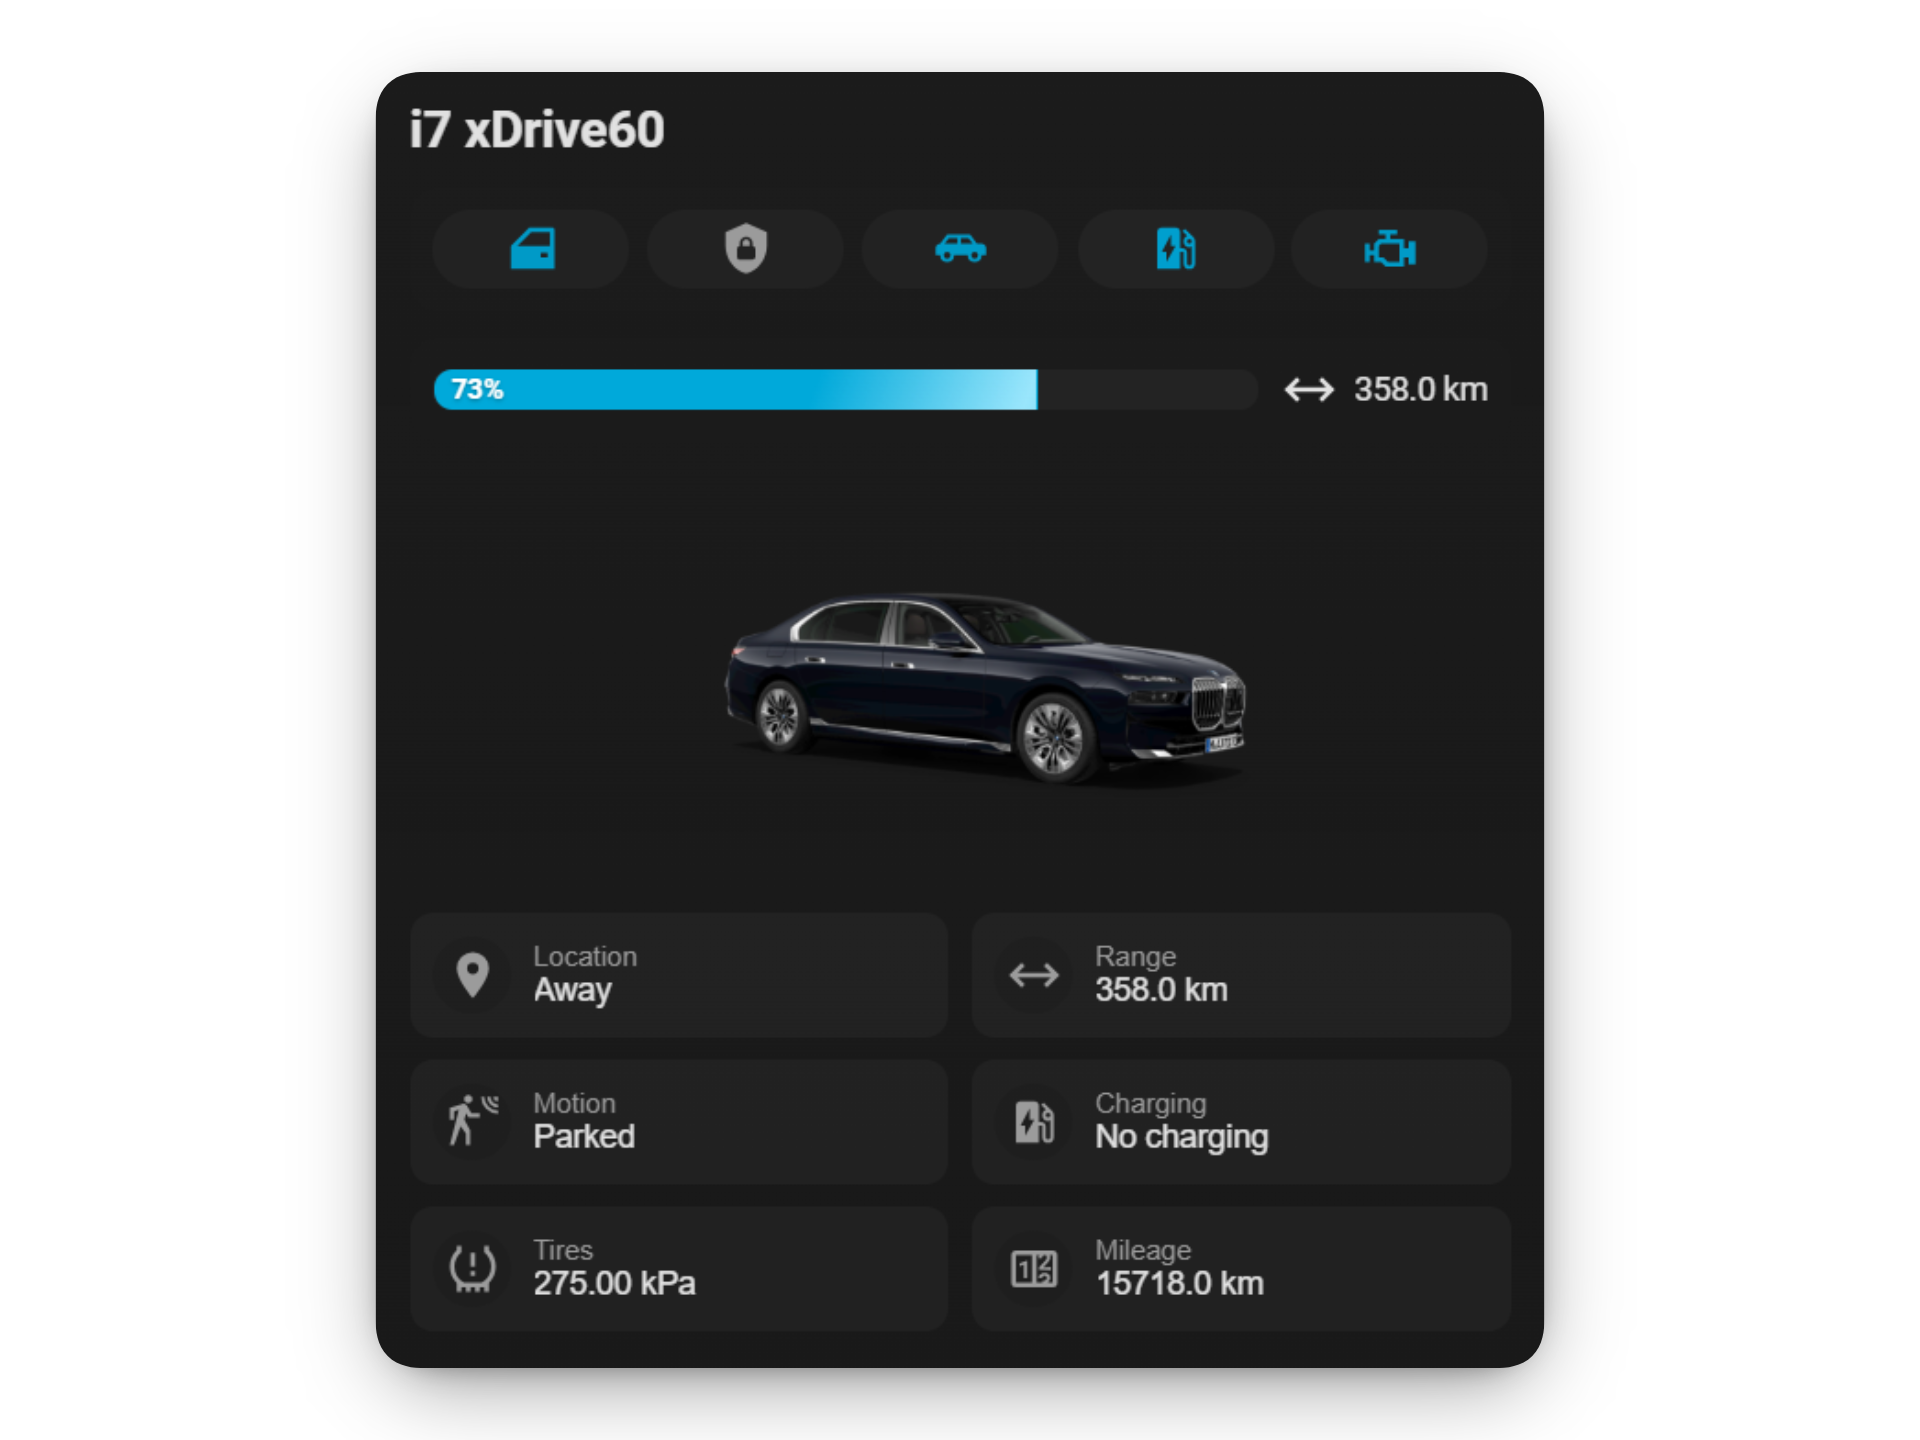
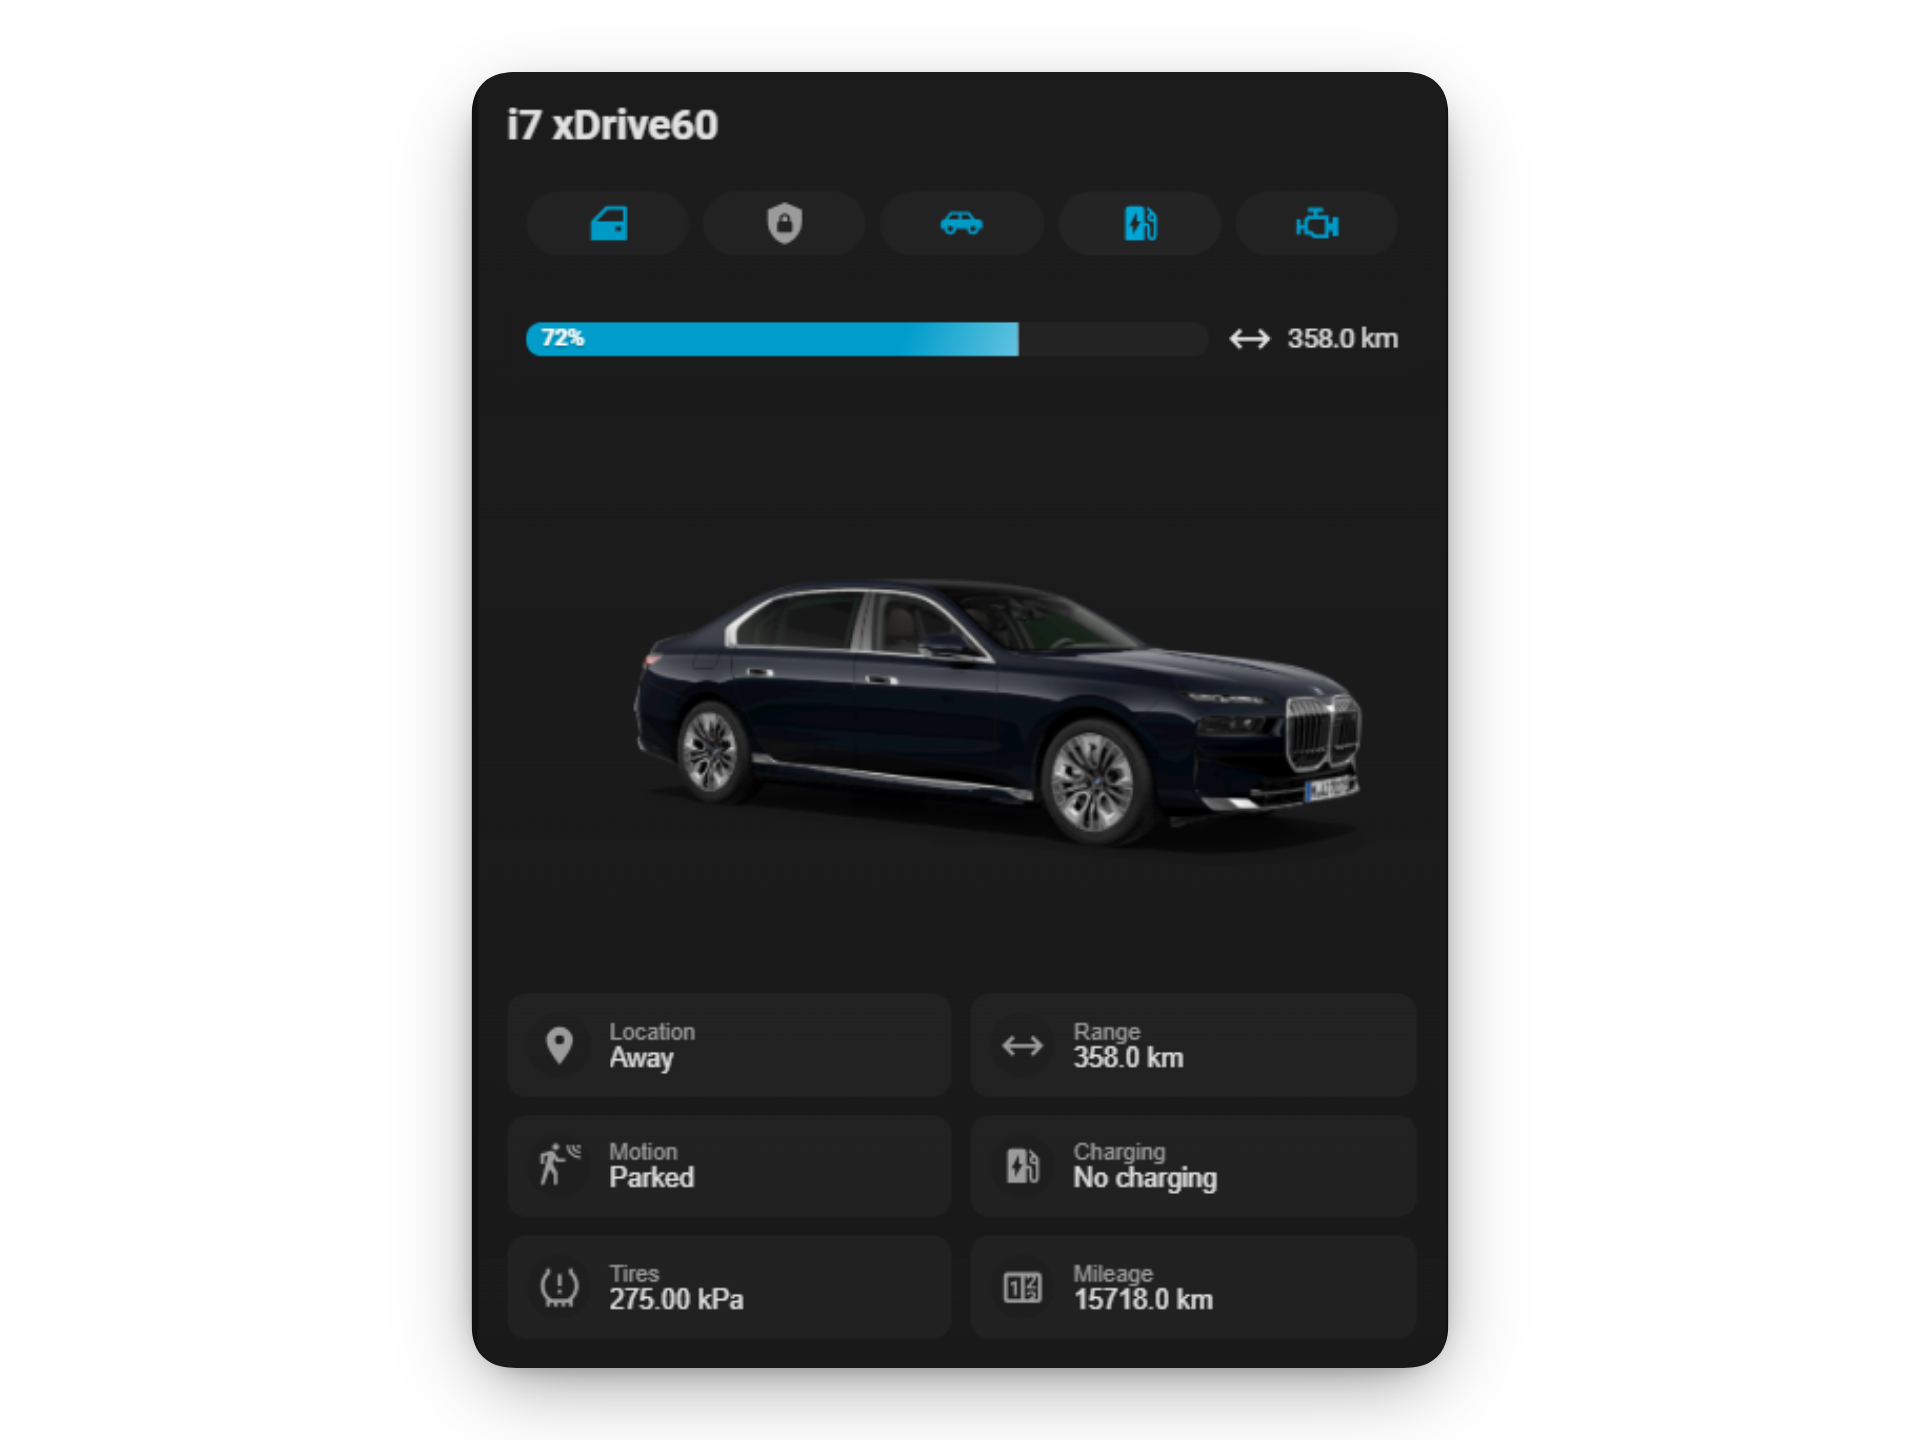
Improve vehicle image fill in Lovelace card

diff --git a/custom_components/cardata/frontend/bmw-cardata-vehicle-card.js b/custom_components/cardata/frontend/bmw-cardata-vehicle-card.js
@@ -314,11 +314,9 @@ class BmwCardataVehicleCard extends HTMLElement {
           .image img {
             width: 100%;
             display: block;
-            object-fit: contain;
+            object-fit: cover;
             object-position: center;
-            height: 170px;
             background: transparent;
-            transform: scale(1);
             transform-origin: center center;
           }
           .image.charging img {
